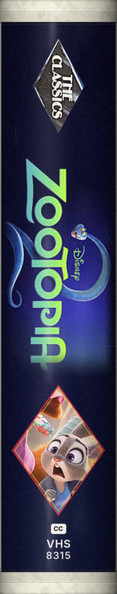
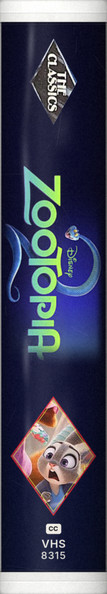
Clamshells: brighter clean white caps, slimmer case; Toy Story 5 and Hoppers printed brighter
Claude-Session: https://claude.ai/code/session_01RnhGoJvJQYqU1rpTHc7xo4

Changed region(s): [[0.0, 0.0, 1.0, 1.0]]

diff --git a/spinegen/lib.py b/spinegen/lib.py
@@ -233,7 +233,7 @@ def web_copy(im):
 
 
 def finish_vhs(img, seed, kind='slip', wear=0.5, gloss=0.05, fade=0.0, warm=0.0, matte=0.025,
-               card=(236, 231, 220), tears=0, dents=0, sun=0.0, blur=0.55, jpegq=90, out=None, notch=None):
+               card=(236, 231, 220), tears=0, dents=0, sun=0.0, blur=0.55, jpegq=90, out=None, notch=None, vivid=0.0):
     """img: RGBA/RGB at S scale -> final RGB image.
     kind='slip': printed cardboard slipcase (white board showing at the folds, corners and mouth,
     scuffs, dents, torn patches).  kind='clam': plastic clamshell with a paper insert under a clear
@@ -241,11 +241,14 @@ def finish_vhs(img, seed, kind='slip', wear=0.5, gloss=0.05, fade=0.0, warm=0.0,
     Everything is seeded per tape; nothing here is the same on two spines."""
     rng = np.random.default_rng(seed)
     a = np.asarray(img.convert('RGB')).astype(np.float32) / 255.0
+    if vivid:  # a brighter, more saturated print (asked for where a spine looked dull)
+        g_ = a.mean(axis=2, keepdims=True)
+        a = np.clip((g_ + (a - g_) * (1 + vivid)) * (1 + 0.45 * vivid), 0, 1)
     ins0 = ins1 = 0
     if kind == 'clam':  # the insert sits in a white plastic case that shows above, below and as a sliver each side
         r2 = np.random.default_rng(seed + 77)
-        yel = r2.uniform(0, 1) ** 2  # some cases have yellowed
-        plast = np.array([240, 240 - 10 * yel, 234 - 40 * yel], np.float32) / 255.0
+        yel = r2.uniform(0, 1) ** 2 * 0.15  # clean bright white (Ian's note); only the faintest warmth varies
+        plast = np.array([252, 252 - 6 * yel, 250 - 22 * yel], np.float32) / 255.0
         cap = np.ones((CLAM_CAP * S, a.shape[1], 3), np.float32) * plast
         sl = int(r2.uniform(2.5, 4.5) * S)
         a[:, :sl] = plast; a[:, -sl:] = plast
@@ -359,7 +362,8 @@ def finish_vhs(img, seed, kind='slip', wear=0.5, gloss=0.05, fade=0.0, warm=0.0,
         # so it darkens steadily toward them (more on the side away from the light) under a soft highlight
         u = 2 * xn - 1
         lit = rng.uniform(-0.25, -0.1)
-        a *= (1 - 0.16 * (u - lit) ** 2 - 0.30 * np.abs(u) ** 5 - 0.10 * np.clip(u, 0, 1) ** 2)[..., None]
+        capw = 1 - 0.55 * ((yy < ins0) | (yy >= ins1))  # the white caps take much less of the shading, so they stay bright
+        a *= (1 - capw * (0.16 * (u - lit) ** 2 + 0.30 * np.abs(u) ** 5 + 0.10 * np.clip(u, 0, 1) ** 2))[..., None]
         a = 1 - (1 - a) * (1 - 0.10 * np.exp(-((u - lit) / 0.30) ** 2)[..., None])
         for xc, wd, st in ((rng.uniform(0.2, 0.42), 0.035, 1.0), (rng.uniform(0.55, 0.8), 0.09, 0.45)):
             band = np.exp(-((xn - xc - 0.03 * fbm(h, w, 260 * S, rng, 2)) / wd) ** 2)
@@ -374,14 +378,14 @@ def finish_vhs(img, seed, kind='slip', wear=0.5, gloss=0.05, fade=0.0, warm=0.0,
         # the caps: moulded plastic rounding over at the very ends, a seam, a little grime
         capm = ((yy < ins0) | (yy >= ins1)).astype(np.float32)
         dy_ = np.minimum(yy, h - 1 - yy) / S
-        a *= (1 - capm * (0.10 * np.clip(1 - dy_ / 6.0, 0, 1) ** 2 + 0.05 * np.clip(fbm(h, w, 14 * S, rng, 3), -1, 1) ** 2))[..., None]
+        a *= (1 - capm * (0.07 * np.clip(1 - dy_ / 6.0, 0, 1) ** 2 + 0.012 * np.clip(fbm(h, w, 14 * S, rng, 3), -1, 1) ** 2))[..., None]
         # the ends are rolled: the plastic turns away at each corner, so shade into the corners
         cr = 12.0  # a small ease only: the ends of the case are close to square
         cd = np.sqrt(np.clip(1 - dx / cr, 0, 1) ** 2 + np.clip(1 - dy_ / cr, 0, 1) ** 2)
         a *= (1 - 0.18 * np.clip(cd - 0.8, 0, 1) / 0.6)[..., None]
-        a *= (1 - capm * 0.07 * np.clip((dy_ - 0.55 * CLAM_CAP) / 3.0, 0, 1))[..., None]  # the lip nearest the sleeve sits a shade darker
+        a *= (1 - capm * 0.035 * np.clip((dy_ - 0.55 * CLAM_CAP) / 3.0, 0, 1))[..., None]  # the lip nearest the sleeve sits a shade darker
         seam = rng.uniform(0.45, 0.62) * CLAM_CAP
-        a *= (1 - capm * 0.16 * np.exp(-((dy_ - seam) / 0.9) ** 2))[..., None]
+        a *= (1 - capm * 0.10 * np.exp(-((dy_ - seam) / 0.9) ** 2))[..., None]
         a += (capm * 0.05 * np.exp(-((dy_ - seam + 2.0) / 1.0) ** 2))[..., None]
         sc = np.zeros((h, w), np.uint8)
         for i in range(int(10 + 50 * wear)):

diff --git a/spinegen/tapes.py b/spinegen/tapes.py
@@ -779,7 +779,7 @@ EMBLEM = 'logos/classics-diamond.png'  # Ian's own photo of the clamshell head e
 
 
 def disney(id, bg, title, face, lcol=(250, 214, 80), head=(('VHS', 30), ('2026', 21)), ink=WHT, cat=None, lpath=None, fin=None, studio=True, **kw):
-    W = int(round(w_for(FILMS[id].get('runtime')) * 1.26))  # a clamshell is a thicker box
+    W = int(round(w_for(FILMS[id].get('runtime')) * 1.15))  # a clamshell is a thicker box (1.26 was tried; Ian wanted it a tad slimmer)
     items = [Gap(4), Gap(10), (head_emblem(EMBLEM, int(W * .84)) if os.path.exists(REPO + EMBLEM) else head_diamond(head, int(W * .78))), Gap(22)] + ([vlogo(id, lcol, int(W * .62), lpath), Gap(22)] if studio else []) + [  # studio=False when the title logo already carries the studio's name
              Flex(.5), V(title if isinstance(title, list) else [title], gap=10), Flex(.7),
              portrait(face, int(W * 1.12)), Gap(16), ccbox(ink), Gap(12),
@@ -829,14 +829,14 @@ def ts_plate(y0f, y1f):
     return fn
 
 
-disney('toy-story-5-2026', ('strip', dict(x0=.0, blur=14, wash=((44, 110, 214), .62))),
-       LC([(0.375, 0.064, 0.625, 0.146), (0.380, 0.126, 0.610, 0.190), (0.450, 0.168, 0.550, 0.250)], 170, gapf=.05,
+disney('toy-story-5-2026', ('strip', dict(x0=.0, blur=14, wash=((36, 124, 242), .6))), fin=dict(CLAM, vivid=.3),
+       title=LC([(0.375, 0.064, 0.625, 0.146), (0.380, 0.126, 0.610, 0.190), (0.450, 0.168, 0.550, 0.250)], 170, gapf=.05,
           cuts=[ts_letters, ts_plate(.30, .68), ts_letters]),
-       ph(.335, .305, .19, 1.4))
+       face=ph(.335, .305, .19, 1.4))
 
 # Hoppers: the poster's yellow all the way down, its glitchy black lettering
-disney('hoppers-2026', ('grad', [(0, (252, 200, 30)), (.6, (250, 186, 20)), (1, (236, 150, 14))]),
-       L(tb('hoppers-2026'), 120, (20, 18, 16), speck=.001), ph(.5, .305, .22, 1.4), lcol=(20, 18, 16), ink=(20, 18, 16))
+disney('hoppers-2026', ('grad', [(0, (255, 214, 28)), (.6, (255, 202, 18)), (1, (252, 178, 10))]), fin=dict(CLAM, vivid=.22),
+       title=L(tb('hoppers-2026'), 120, (20, 18, 16), speck=.001), face=ph(.5, .305, .22, 1.4), lcol=(20, 18, 16), ink=(20, 18, 16))
 
 # Zootopia 2: the film's own title logo (Ian supplied the image: logos/zootopia-2-title.png, kept on its
 # night-blue field and feathered at the edges), on a spine graded to the same blues

diff --git a/CLAUDE.md b/CLAUDE.md
@@ -30,7 +30,7 @@ One designed spine picture per tape, made in November 2026 with `spinegen/` (por
 - Catalogue numbers, sticker text and prices are invented. Malice uses the Castle Rock logo file because `films.json` has the wrong studio (Nelvana) for it.
 - Check new spines scaled to 250px tall; thin lettering fades at that size.
 - Rules Ian has set for spines: card wear must never show on the cassette inside the thumb notch (it is plastic; `finish_vhs(notch=...)` repaints it after the wear), the VHS mark and numbers always sit at the foot, and every spine has its title running down it (no title blocks set across the top; Girl in the Box and The Devil Wears Prada 2 were redone for this on 16 November 2026).
-- Disney and Pixar rule (Ian, 16 November 2026): every Disney or Pixar film gets the white clamshell, not a slipcase, laid out like the 1990s Disney clamshell spines (his reference photos): artwork the full length, a black diamond at the head, the studio logo reading down, the title in the film's own logo lettering, a single character's face in a red diamond near the foot (a true diamond, taller than wide, not a square on its corner), then CC, VHS and the number. Use `disney(...)` in `tapes.py` (currently Zootopia 2, Hoppers, Toy Story 5). A clamshell is a bigger box: its picture is drawn wider and 1188px tall (white plastic caps top and bottom, added by `finish_vhs(kind='clam')`) and saved at the same scale as the others, and `prepare()` in `app.js` sizes any spine picture taller than 560px from the picture itself, so these stand about 270px tall and 53px wide beside the 250px slipcases. The whole spine is rounded plastic, not a flat rectangular face (Ian's note): the picture is shaded as a curved moulding that falls away to both long edges, and `.spine.designed.clam` in `style.css` adds the same roll-off. The ends stay close to square (4px corner radius; a rounder end was tried and Ian found it too rounded). The head emblem is `logos/classics-diamond.png`: Ian's own low-res photo crop of the black-diamond emblem, squared up and placed as a picture (not redrawn); if that file is missing, `disney()` falls back to a plain diamond with "VHS 2026". A sharper photo saved over that file will be picked up on the next render. Zootopia 2's title is `logos/zootopia-2-title.png`, the film's title logo as Ian supplied it (kept on its own night-blue field, feathered at the edges, on a spine graded to match), placed with `Pic(...)`. Toy Story 5's title is the poster's own logo cut into its three pieces by colour (`ts_letters`, `ts_plate`) and laid along the spine as TOY, the red STORY plate, then the 5, the way the Toy Story tapes did it.
+- Disney and Pixar rule (Ian, 16 November 2026): every Disney or Pixar film gets the white clamshell, not a slipcase, laid out like the 1990s Disney clamshell spines (his reference photos): artwork the full length, a black diamond at the head, the studio logo reading down, the title in the film's own logo lettering, a single character's face in a red diamond near the foot (a true diamond, taller than wide, not a square on its corner), then CC, VHS and the number. Use `disney(...)` in `tapes.py` (currently Zootopia 2, Hoppers, Toy Story 5). A clamshell is a bigger box: its picture is drawn wider and 1188px tall (white plastic caps top and bottom, added by `finish_vhs(kind='clam')`) and saved at the same scale as the others, and `prepare()` in `app.js` sizes any spine picture taller than 560px from the picture itself, so these stand about 270px tall and 49px wide beside the 250px slipcases. Caps are a bright, clean white and the box is 1.15x a slipcase's width (Ian asked for whiter ends and a slimmer case than the first 1.26x); Toy Story 5 and Hoppers are printed brighter with `vivid` because they looked dull. The whole spine is rounded plastic, not a flat rectangular face (Ian's note): the picture is shaded as a curved moulding that falls away to both long edges, and `.spine.designed.clam` in `style.css` adds the same roll-off. The ends stay close to square (4px corner radius; a rounder end was tried and Ian found it too rounded). The head emblem is `logos/classics-diamond.png`: Ian's own low-res photo crop of the black-diamond emblem, squared up and placed as a picture (not redrawn); if that file is missing, `disney()` falls back to a plain diamond with "VHS 2026". A sharper photo saved over that file will be picked up on the next render. Zootopia 2's title is `logos/zootopia-2-title.png`, the film's title logo as Ian supplied it (kept on its own night-blue field, feathered at the edges, on a spine graded to match), placed with `Pic(...)`. Toy Story 5's title is the poster's own logo cut into its three pieces by colour (`ts_letters`, `ts_plate`) and laid along the spine as TOY, the red STORY plate, then the 5, the way the Toy Story tapes did it.
 - Look and sources: modelled on Ian's reference image of modern films given retro VHS box spines (title in the poster's own lettering, a framed picture at the head, studio logo, format mark and catalogue number at the foot, rental stickers, worn card). Studio logos and poster crops (including animated and comic characters) are welcome on spines; logos are placed from `logos/`, never redrawn. The typed-only "ZIPPORAH FILMS" (High School) and "UTOPIA" (The Sweet East), and the cast/director credit lines on some spines, were written from memory and may be wrong.
 - Five tapes have no logo file and carry a line of type instead: High School, The Sweet East, Louis C.K.: Ridiculous, Jeff Arcuri, Face/Off.
 - Not verified: that the "Re-mark spine" button is hidden on designed tapes (it only shows with the GitHub token saved, so it could not be seen in a test browser).
